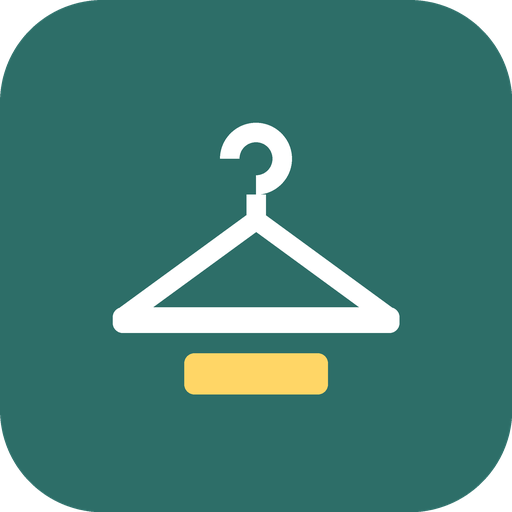
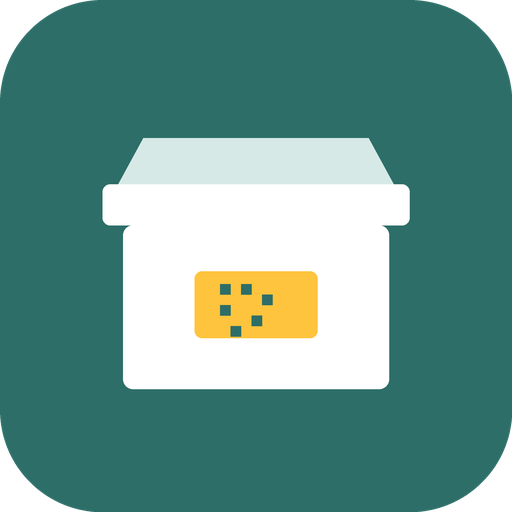
보관함 웹앱 2026.11.24-2151

Changed region(s): [[0.1875, 0.2188, 0.8125, 0.7812]]

diff --git a/index.html b/index.html
@@ -3,8 +3,8 @@
 <head>
 <meta charset="utf-8">
 <meta name="viewport" content="width=device-width,initial-scale=1,viewport-fit=cover">
-<title>우리집 옷장</title>
-<meta name="description" content="상자에 QR 라벨을 붙이고, 어디에 무슨 옷이 있는지 폰으로 찾는 옷장 정리 앱. 기록은 내 폰에만 저장돼요.">
+<title>우리집 보관함</title>
+<meta name="description" content="상자에 QR 라벨을 붙이고, 어디에 무엇이 있는지 폰으로 찾는 집 정리 앱. 옷·장난감·계절용품·공구까지. 기록은 내 폰에만 저장돼요.">
 <meta name="theme-color" content="#f6f5f2">
 <link rel="manifest" href="manifest.webmanifest">
 <link rel="icon" type="image/png" href="icons/icon-192.png">
@@ -12,6 +12,7 @@
 <style>
 :root{--bg:#f6f5f2;--card:#fff;--fg:#25242a;--muted:#6c6973;--line:#e7e4de;--field:#f0eee9;--accent:#2d6e68;--accent-2:#e4f0ee;--bad:#c63c3c;--good:#2f8a4e;--r:14px;--shadow:0 1px 2px rgba(0,0,0,.05),0 2px 10px rgba(0,0,0,.04)}
 *{box-sizing:border-box}
+[hidden]{display:none!important}
 html{-webkit-text-size-adjust:100%}
 body{margin:0;background:var(--bg);color:var(--fg);font:15px/1.5 "Pretendard","Noto Sans KR",system-ui,-apple-system,"Apple SD Gothic Neo","Malgun Gothic",sans-serif;padding-bottom:calc(76px + env(safe-area-inset-bottom))}
 @media (min-width:700px){html{font-size:17px}body{font-size:17px}}
@@ -154,8 +155,8 @@ nav.tabs button.add .i{width:46px;height:46px;border-radius:50%;background:var(-
 <button class="fab" id="fab" type="button" hidden><span aria-hidden="true">⌗</span> QR 찍기</button>
 <nav class="tabs" aria-label="화면"><div class="wrap">
   <button type="button" data-tab="home"><span class="i" aria-hidden="true">⌂</span>수납함</button>
-  <button type="button" data-tab="items"><span class="i" aria-hidden="true">▦</span>옷 전체</button>
-  <button type="button" data-tab="add" class="add" aria-label="옷 추가"><span class="i" aria-hidden="true">+</span>추가</button>
+  <button type="button" data-tab="items"><span class="i" aria-hidden="true">▦</span>물건 전체</button>
+  <button type="button" data-tab="add" class="add" aria-label="물건 추가"><span class="i" aria-hidden="true">+</span>추가</button>
   <button type="button" data-tab="gone"><span class="i" aria-hidden="true">♺</span>정리함</button>
   <button type="button" data-tab="settings"><span class="i" aria-hidden="true">⚙</span>설정</button>
 </div></nav>
@@ -168,7 +169,7 @@ nav.tabs button.add .i{width:46px;height:46px;border-radius:50%;background:var(-
 <script>
 (function(){
 'use strict';
-const VERSION='2026.11.24-2145';
+const VERSION='2026.11.24-2151';
 const PREVIEW='0'==='1'; // Claude 미리보기: 카메라·인쇄·파일 내려받기가 막혀 있음
 const $=id=>document.getElementById(id);
 const el=(tag,attrs,...kids)=>{const e=document.createElement(tag);if(attrs)for(const k in attrs){const v=attrs[k];if(v==null||v===false)continue;if(k==='class')e.className=v;else if(k==='text')e.textContent=v;else if(k==='html')e.innerHTML=v;else if(k.startsWith('on'))e.addEventListener(k.slice(2),v);else if(k==='style')e.style.cssText=v;else e.setAttribute(k,v===true?'':v)}kids.flat().forEach(c=>{if(c==null||c===false)return;e.append(c.nodeType?c:String(c))});return e};
@@ -179,7 +180,8 @@ const won=n=>(Number(n)||0).toLocaleString('ko-KR')+'원';
 
 const COLORS=[['red','빨강','#df4a4f'],['orange','주황','#e9822a'],['yellow','노랑','#d9a514'],['green','초록','#2f9a57'],['blue','파랑','#3478d4'],['purple','보라','#7f56d9'],['pink','분홍','#d9558f'],['gray','회색','#6f7680']];
 const colorOf=k=>(COLORS.find(c=>c[0]===k)||COLORS[7]);
-const CATS=['상의','하의','원피스·세트','아우터','니트·가디건','속옷·잠옷','양말·스타킹','신발','가방','모자·소품','이불·패브릭','기타'];
+const CATS=['옷','신발·가방','이불·패브릭','장난감','책·문구','주방용품','생활용품','계절용품','공구·캠핑','전자기기','서류·추억','기타'];
+const OLD_CLOTHES=['상의','하의','원피스·세트','아우터','니트·가디건','속옷·잠옷','양말·스타킹','모자·소품']; // 옷장 앱 시절 종류 → '옷'
 const SEASONS=['봄','여름','가을','겨울'];
 const EXITS=[['give','기증'],['sell','판매'],['hand','물려줌'],['trash','버림'],['etc','기타']];
 const exitName=k=>(EXITS.find(e=>e[0]===k)||EXITS[4])[1];
@@ -195,7 +197,7 @@ const phGet=async id=>P((await store('photos')).get(id));
 const phSet=async(id,v)=>P((await store('photos','readwrite')).put(v,id));
 const phDel=async id=>P((await store('photos','readwrite')).delete(id));
 
-const BLANK=()=>({v:1,name:'우리집 옷장',rooms:[],boxes:[],items:[],people:[],seq:0,lastBackup:0});
+const BLANK=()=>({v:1,name:'우리집 보관함',rooms:[],boxes:[],items:[],people:[],seq:0,lastBackup:0});
 let S=BLANK();
 let saveT=null;
 function changed(){clearTimeout(saveT);saveT=setTimeout(save,300)}
@@ -207,7 +209,7 @@ document.addEventListener('visibilitychange',()=>{if(document.hidden&&saveT){cle
 const urlCache=new Map();
 async function thumbURL(id,full){const key=id+(full?':f':'');if(urlCache.has(key))return urlCache.get(key);const r=await phGet(id).catch(()=>null);if(!r)return null;const b=full?(r.full||r.thumb):(r.thumb||r.full);if(!b)return null;const u=URL.createObjectURL(b);urlCache.set(key,u);return u}
 function fillPhotos(root){root.querySelectorAll('img[data-ph]').forEach(async img=>{const u=await thumbURL(img.dataset.ph,img.dataset.full==='1');if(u){img.src=u;img.hidden=false}})}
-function phEl(photoId,full,fallback){const box=el('div',{class:'ph'});if(photoId){const i=el('img',{alt:'','data-ph':photoId,'data-full':full?'1':null,hidden:true});box.append(i)}else box.append(fallback||'👕');return box}
+function phEl(photoId,full,fallback){const box=el('div',{class:'ph'});if(photoId){const i=el('img',{alt:'','data-ph':photoId,'data-full':full?'1':null,hidden:true});box.append(i)}else box.append(fallback||'🏷');return box}
 function loadImg(file){return new Promise((res,rej)=>{const u=URL.createObjectURL(file);const i=new Image();i.onload=()=>{res(i);setTimeout(()=>URL.revokeObjectURL(u),1000)};i.onerror=()=>{URL.revokeObjectURL(u);rej(new Error('사진을 열 수 없어요'))};i.src=u})}
 function shrink(img,max,q){const s=Math.min(1,max/Math.max(img.naturalWidth,img.naturalHeight));const c=document.createElement('canvas');c.width=Math.max(1,Math.round(img.naturalWidth*s));c.height=Math.max(1,Math.round(img.naturalHeight*s));c.getContext('2d').drawImage(img,0,0,c.width,c.height);return new Promise(r=>c.toBlob(b=>r(b),'image/jpeg',q))}
 async function savePhoto(file){const img=await loadImg(file);const full=await shrink(img,1280,.82),thumb=await shrink(img,320,.72);const id='p'+uid();await phSet(id,{full,thumb});askPersist();return id}
@@ -222,7 +224,7 @@ const roomOf=id=>S.rooms.find(r=>r.id===id);
 const itemOf=id=>S.items.find(i=>i.id===id);
 const keep=()=>S.items.filter(i=>i.status!=='gone');
 const inBox=bid=>keep().filter(i=>i.boxId===bid);
-const itemName=i=>i.name||(i.cat||'옷');
+const itemName=i=>i.name||(i.cat||'물건');
 const boxLabel=b=>'#'+pad(b.code)+' '+(b.name||'이름 없는 수납함');
 function locText(i){const b=boxOf(i.boxId);if(!b)return '위치 미정';const r=roomOf(b.roomId);return boxLabel(b)+(r?' · '+r.name:'')}
 function locChip(i){const b=boxOf(i.boxId);const s=el('span',{class:'loc'});if(b)s.append(el('i',{class:'dot',style:'background:'+colorOf(b.color)[2]}));s.append(locText(i));return s}
@@ -252,7 +254,7 @@ function vHome(m){
   topbar(S.name,false,el('button',{class:'iconbtn',type:'button','aria-label':'설정',onclick:()=>tabGo('settings')},'⚙'));
   if(!S.boxes.length&&!S.items.length){m.append(welcome());return}
   const res=el('div');
-  const inp=el('input',{type:'search',placeholder:'무엇을 찾나요? 예: 패딩, 겨울, 110',value:homeQ,'aria-label':'옷 찾기',oninput:()=>{homeQ=inp.value;draw()}});
+  const inp=el('input',{type:'search',placeholder:'무엇을 찾나요? 예: 패딩, 트리, 레고',value:homeQ,'aria-label':'물건 찾기',oninput:()=>{homeQ=inp.value;draw()}});
   m.append(el('div',{class:'search'},inp),res);
   const bk=backupNag();if(bk)m.insertBefore(bk,res);
   function draw(){
@@ -261,8 +263,8 @@ function vHome(m){
       const its=keep().filter(i=>matchItem(i,homeQ));
       const bxs=S.boxes.filter(b=>norm([b.name,'#'+pad(b.code),b.note,colorOf(b.color)[1],(roomOf(b.roomId)||{}).name].join(' ')).includes(norm(homeQ)));
       if(bxs.length){res.append(el('h2',{class:'sec'},'수납함 ',el('span',{class:'cnt'},bxs.length+'개')));bxs.forEach(b=>res.append(boxRow(b)))}
-      res.append(el('h2',{class:'sec'},'옷 ',el('span',{class:'cnt'},its.length+'벌')));
-      if(!its.length)res.append(el('div',{class:'empty'},'찾는 옷이 없어요. 다른 말로 찾아보세요.'));
+      res.append(el('h2',{class:'sec'},'물건 ',el('span',{class:'cnt'},its.length+'개')));
+      if(!its.length)res.append(el('div',{class:'empty'},'찾는 물건이 없어요. 다른 말로 찾아보세요.'));
       const L=el('div',{class:'list'});its.slice(0,200).forEach(i=>L.append(itemRow(i)));res.append(L);fillPhotos(res);return;
     }
     const groups=S.rooms.map(r=>[r,S.boxes.filter(b=>b.roomId===r.id)]);
@@ -274,16 +276,16 @@ function vHome(m){
       bs.slice().sort((a,b)=>a.code-b.code).forEach(b=>res.append(boxRow(b)));
     });
     const none=keep().filter(i=>!boxOf(i.boxId));
-    if(none.length){res.append(el('h2',{class:'sec'},'위치 미정',el('span',{class:'cnt'},none.length+'벌')));res.append(el('button',{class:'boxrow',type:'button',onclick:()=>go({name:'items',box:'none'})},el('div',{class:'bar',style:'background:#bbb'},'?'),el('div',{class:'tx'},el('b',{},'아직 수납함을 안 정한 옷'),el('div',{class:'sum'},'눌러서 한꺼번에 옮길 수 있어요')),el('div',{class:'n'},none.length+'벌 ›')))}
+    if(none.length){res.append(el('h2',{class:'sec'},'위치 미정',el('span',{class:'cnt'},none.length+'개')));res.append(el('button',{class:'boxrow',type:'button',onclick:()=>go({name:'items',box:'none'})},el('div',{class:'bar',style:'background:#bbb'},'?'),el('div',{class:'tx'},el('b',{},'아직 수납함을 안 정한 물건'),el('div',{class:'sum'},'눌러서 한꺼번에 옮길 수 있어요')),el('div',{class:'n'},none.length+'개 ›')))}
     res.append(el('div',{class:'btns',style:'margin:14px 0 30px'},el('button',{class:'btn ghost',type:'button',onclick:()=>boxSheet()},'+ 수납함 만들기'),el('button',{class:'btn ghost',type:'button',onclick:()=>roomSheet()},'+ 방(장소) 만들기')));
   }
   draw();
 }
-function boxRow(b){const n=inBox(b.id).length;return el('button',{class:'boxrow',type:'button',onclick:()=>go({name:'box',id:b.id})},el('div',{class:'bar',style:'background:'+colorOf(b.color)[2]},pad(b.code)),el('div',{class:'tx'},el('b',{},b.name||'이름 없는 수납함'),el('div',{class:'sum'},boxSummary(b))),el('div',{class:'n'},n+'벌 ›'))}
+function boxRow(b){const n=inBox(b.id).length;return el('button',{class:'boxrow',type:'button',onclick:()=>go({name:'box',id:b.id})},el('div',{class:'bar',style:'background:'+colorOf(b.color)[2]},pad(b.code)),el('div',{class:'tx'},el('b',{},b.name||'이름 없는 수납함'),el('div',{class:'sum'},boxSummary(b))),el('div',{class:'n'},n+'개 ›'))}
 function itemRow(i,onclick){return el('button',{class:'row',type:'button',onclick:onclick||(()=>itemSheet(i.id))},phEl(i.photoId),el('div',{class:'tx'},el('b',{},itemName(i)),el('span',{},itemMeta(i)||' '),i.status==='gone'?el('span',{},exitName(i.exit&&i.exit.type)+(i.exit&&i.exit.to?' · '+i.exit.to:'')+(i.exit&&i.exit.date?' · '+i.exit.date:'')):locChip(i)))}
 function itemCard(i){return el('button',{class:'it',type:'button',onclick:()=>itemSheet(i.id)},phEl(i.photoId),el('div',{class:'cap'},el('b',{},itemName(i)),el('span',{},[i.size,i.owner].filter(Boolean).join(' · ')||i.cat||' ')))}
 function welcome(){return el('div',{},
-  el('div',{class:'note',style:'margin-top:16px'},el('b',{},'우리집 옷장에 오신 걸 환영해요'),el('br'),'① 방(장소)을 만들고 ② 수납함(상자·서랍·옷장 칸)을 만든 뒤 ③ 옷을 사진과 함께 넣어요. ④ 설정 → 라벨 인쇄로 QR 라벨을 뽑아 상자에 붙이면, 폰 카메라로 찍기만 해도 안에 뭐가 있는지 보여요.'),
+  el('div',{class:'note',style:'margin-top:16px'},el('b',{},'우리집 보관함에 오신 걸 환영해요'),el('br'),'① 방(장소)을 만들고 ② 수납함(상자·서랍·옷장 칸·선반)을 만든 뒤 ③ 옷·장난감·계절용품 같은 물건을 사진과 함께 넣어요. ④ 설정 → 라벨 인쇄로 QR 라벨을 뽑아 상자에 붙이면, 폰 카메라로 찍기만 해도 안에 뭐가 있는지 보여요.'),
   el('div',{class:'btns',style:'margin:10px 0'},el('button',{class:'btn',type:'button',onclick:()=>roomSheet()},'+ 방 만들기'),el('button',{class:'btn soft',type:'button',onclick:()=>boxSheet()},'+ 수납함 만들기')),
   el('div',{class:'btns'},el('button',{class:'btn ghost',type:'button',onclick:()=>sample()},'예시로 둘러보기')),
   el('p',{class:'msg',style:'text-align:center;margin-top:16px'},'기록과 사진은 이 폰 안에만 저장돼요. 가끔 설정 → 백업을 해 두세요.'))}
@@ -296,10 +298,10 @@ function vBox(m){
   topbar(b.name||'수납함',true,el('button',{class:'iconbtn',type:'button','aria-label':'수납함 고치기',onclick:()=>boxSheet(b.id)},'✎'));
   m.append(el('div',{class:'boxhead',style:'background:'+c[2]},el('div',{class:'code'},'#'+pad(b.code)),el('div',{},el('div',{class:'nm'},b.name||'이름 없는 수납함'),el('div',{class:'rm'},[r?r.name:'방 미정',c[1]+' 라벨',b.note].filter(Boolean).join(' · ')))));
   const L=inBox(b.id);
-  m.append(el('div',{class:'btns',style:'margin:10px 0'},el('button',{class:'btn',type:'button',onclick:()=>itemSheet(null,{boxId:b.id})},'+ 옷 넣기'),el('button',{class:'btn soft',type:'button',onclick:()=>manySheet({boxId:b.id})},'여러 벌'),el('button',{class:'btn ghost',type:'button',onclick:()=>go({name:'labels',only:[b.id]})},'QR 라벨')));
+  m.append(el('div',{class:'btns',style:'margin:10px 0'},el('button',{class:'btn',type:'button',onclick:()=>itemSheet(null,{boxId:b.id})},'+ 물건 넣기'),el('button',{class:'btn soft',type:'button',onclick:()=>manySheet({boxId:b.id})},'여러 개'),el('button',{class:'btn ghost',type:'button',onclick:()=>go({name:'labels',only:[b.id]})},'QR 라벨')));
   if(b.photoId){m.append(el('h2',{class:'sec'},'상자 속 사진'));const bp=el('div',{class:'big-ph'},el('img',{alt:'상자 속 사진','data-ph':b.photoId,'data-full':'1',hidden:true}));m.append(bp)}
-  m.append(el('h2',{class:'sec'},'들어 있는 옷',el('span',{class:'cnt'},L.length+'벌')));
-  if(!L.length){m.append(el('div',{class:'empty'},'아직 비어 있어요. "+ 옷 넣기"로 넣거나, 옷 화면에서 이 상자로 옮겨요.'));return}
+  m.append(el('h2',{class:'sec'},'들어 있는 것',el('span',{class:'cnt'},L.length+'개')));
+  if(!L.length){m.append(el('div',{class:'empty'},'아직 비어 있어요. "+ 물건 넣기"로 넣거나, 물건 화면에서 이 상자로 옮겨요.'));return}
   const g=el('div',{class:'grid'});L.slice().sort((a,b)=>(a.cat||'').localeCompare(b.cat||'')||(a.size||'').localeCompare(b.size||'',undefined,{numeric:true})).forEach(i=>g.append(itemCard(i)));m.append(g);
   m.append(el('div',{style:'height:70px'}));
 }
@@ -307,9 +309,9 @@ function vBox(m){
 // ---------- 옷 전체 ----------
 let F={q:'',cat:'',owner:'',season:''};
 function vItems(m){
-  topbar(view.box==='none'?'위치 미정인 옷':'옷 전체',view.box==='none');
+  topbar(view.box==='none'?'위치 미정인 물건':'물건 전체',view.box==='none');
   const res=el('div');
-  const inp=el('input',{type:'search',placeholder:'이름·브랜드·사이즈로 찾기',value:F.q,'aria-label':'옷 찾기',oninput:()=>{F.q=inp.value;draw()}});
+  const inp=el('input',{type:'search',placeholder:'이름·브랜드·사이즈로 찾기',value:F.q,'aria-label':'물건 찾기',oninput:()=>{F.q=inp.value;draw()}});
   m.append(el('div',{class:'search'},inp));
   const fl=el('div',{class:'filters'});
   const chipRow=(key,opts,allLabel)=>{const r=el('div',{class:'chips scroll'});const mk=(v,t)=>el('button',{class:'chip',type:'button','aria-pressed':String(F[key]===v),onclick:()=>{F[key]=F[key]===v&&v?'':v;rowsDraw();draw()}},t);r.append(mk('',allLabel));opts.forEach(o=>r.append(mk(o,o)));return r};
@@ -319,27 +321,27 @@ function vItems(m){
     res.textContent='';
     let L=keep().filter(i=>(view.box!=='none'||!boxOf(i.boxId))&&(!F.cat||i.cat===F.cat)&&(!F.owner||i.owner===F.owner)&&(!F.season||(i.season||[]).includes(F.season))&&matchItem(i,F.q));
     L.sort((a,b)=>(b.updated||0)-(a.updated||0));
-    const head=el('h2',{class:'sec'},L.length+'벌');
-    if(L.length)head.append(el('button',{class:'more',type:'button',onclick:()=>moveMany(L)},'보이는 옷 한꺼번에 옮기기'));
+    const head=el('h2',{class:'sec'},L.length+'개');
+    if(L.length)head.append(el('button',{class:'more',type:'button',onclick:()=>moveMany(L)},'보이는 것 한꺼번에 옮기기'));
     res.append(head);
-    if(!L.length){res.append(el('div',{class:'empty'},keep().length?'조건에 맞는 옷이 없어요.':'아직 등록한 옷이 없어요. 아래 + 를 눌러 넣어 보세요.'));return}
+    if(!L.length){res.append(el('div',{class:'empty'},keep().length?'조건에 맞는 물건이 없어요.':'아직 넣은 물건이 없어요. 아래 + 를 눌러 넣어 보세요.'));return}
     const list=el('div',{class:'list'});L.slice(0,400).forEach(i=>list.append(itemRow(i)));res.append(list);
-    if(L.length>400)res.append(el('div',{class:'empty'},'앞의 400벌만 보여요. 검색이나 필터로 좁혀 주세요.'));
+    if(L.length>400)res.append(el('div',{class:'empty'},'앞의 400개만 보여요. 검색이나 필터로 좁혀 주세요.'));
     fillPhotos(res);
   }
   draw();
 }
-function moveMany(L){pickBox('옮길 수납함 고르기 ('+L.length+'벌)',null,bid=>{L.forEach(i=>{i.boxId=bid;i.updated=Date.now()});changed();toast(L.length+'벌을 옮겼어요');render()})}
+function moveMany(L){pickBox('옮길 수납함 고르기 ('+L.length+'개)',null,bid=>{L.forEach(i=>{i.boxId=bid;i.updated=Date.now()});changed();toast(L.length+'개를 옮겼어요');render()})}
 
 // ---------- 정리함 ----------
 function vGone(m){
-  topbar('정리한 옷',false);
+  topbar('정리한 물건',false);
   const G=S.items.filter(i=>i.status==='gone').sort((a,b)=>((b.exit&&b.exit.date)||'').localeCompare((a.exit&&a.exit.date)||''));
   const cnt=k=>G.filter(i=>(i.exit&&i.exit.type)===k).length;
   const sold=G.filter(i=>i.exit&&i.exit.type==='sell').reduce((a,i)=>a+(Number(i.exit.price)||0),0);
-  m.append(el('div',{class:'stat'},el('div',{},el('b',{},G.length),el('span',{},'정리한 옷')),el('div',{},el('b',{},cnt('give')+cnt('hand')),el('span',{},'기증·물려줌')),el('div',{},el('b',{},won(sold)),el('span',{},'판매 금액'))));
-  m.append(el('div',{class:'note'},'안 입는 옷은 옷 화면에서 "정리하기"를 누르면 여기로 와요. 판매는 당근마켓에 올릴 글을 만들어 줘요. 잘못 옮겼으면 눌러서 되돌릴 수 있어요.'));
-  if(!G.length){m.append(el('div',{class:'empty'},'아직 정리한 옷이 없어요.'));return}
+  m.append(el('div',{class:'stat'},el('div',{},el('b',{},G.length),el('span',{},'정리한 물건')),el('div',{},el('b',{},cnt('give')+cnt('hand')),el('span',{},'기증·물려줌')),el('div',{},el('b',{},won(sold)),el('span',{},'판매 금액'))));
+  m.append(el('div',{class:'note'},'안 쓰는 물건은 물건 화면에서 "정리하기"를 누르면 여기로 와요. 판매는 당근마켓에 올릴 글을 만들어 줘요. 잘못 옮겼으면 눌러서 되돌릴 수 있어요.'));
+  if(!G.length){m.append(el('div',{class:'empty'},'아직 정리한 물건이 없어요.'));return}
   const L=el('div',{class:'list'});G.forEach(i=>L.append(itemRow(i)));m.append(L);
 }
 
@@ -348,9 +350,9 @@ function vSettings(m){
   topbar('설정',false);
   const card=(t,p,...kids)=>el('div',{class:'setcard'},el('h4',{},t),p?el('p',{},p):null,...kids);
   const nm=el('input',{class:'inp',type:'text',value:S.name,maxlength:'20'});
-  m.append(card('옷장 이름','맨 위에 보이는 이름이에요.',el('div',{class:'tagrow'},nm,el('button',{type:'button',onclick:()=>{S.name=nm.value.trim()||'우리집 옷장';changed();toast('이름을 바꿨어요');document.title=S.name}},'저장'))));
+  m.append(card('보관함 이름','맨 위에 보이는 이름이에요.',el('div',{class:'tagrow'},nm,el('button',{type:'button',onclick:()=>{S.name=nm.value.trim()||'우리집 보관함';changed();toast('이름을 바꿨어요');document.title=S.name}},'저장'))));
   m.append(card('방(장소)','수납함을 방별로 묶어 보여 줘요. 예: 안방 옷장, 아이방, 베란다 창고',listEditor(S.rooms,r=>r.name,(r,v)=>{r.name=v},()=>roomSheet(),async r=>{const n=S.boxes.filter(b=>b.roomId===r.id).length;if(n&&!await ask('"'+r.name+'" 지우기','이 방의 수납함 '+n+'개는 "방 미정"으로 옮겨져요.','지우기'))return false;S.rooms=S.rooms.filter(x=>x!==r);return true},true)));
-  m.append(card('누구 옷','가족 이름을 넣으면 옷마다 누구 것인지 고르고, 사람별로 모아 볼 수 있어요.',listEditor(S.people.map(p=>({p})),o=>o.p,(o,v)=>{const i=S.people.indexOf(o.p);if(i>=0){S.items.forEach(it=>{if(it.owner===o.p)it.owner=v});S.people[i]=v;o.p=v}},async()=>{const v=await askText('가족 이름 추가','예: 엄마, 선우');if(v&&!S.people.includes(v)){S.people.push(v);changed();render()}},o=>{S.people=S.people.filter(x=>x!==o.p);return true},false)));
+  m.append(card('누구 것','가족 이름을 넣으면 물건마다 누구 것인지 고르고, 사람별로 모아 볼 수 있어요.',listEditor(S.people.map(p=>({p})),o=>o.p,(o,v)=>{const i=S.people.indexOf(o.p);if(i>=0){S.items.forEach(it=>{if(it.owner===o.p)it.owner=v});S.people[i]=v;o.p=v}},async()=>{const v=await askText('가족 이름 추가','예: 엄마, 선우');if(v&&!S.people.includes(v)){S.people.push(v);changed();render()}},o=>{S.people=S.people.filter(x=>x!==o.p);return true},false)));
   m.append(card('QR 라벨 인쇄','A4 스티커 용지에 수납함 라벨을 한 번에 뽑아요. 폰 카메라로 라벨을 찍으면 이 앱에서 그 수납함이 열려요.',el('button',{class:'btn wide',type:'button',onclick:()=>go({name:'labels'})},'라벨 고르고 인쇄하기')));
   const bm=el('div',{class:'msg'});
   const last=S.lastBackup?new Date(S.lastBackup).toLocaleDateString('ko-KR'):'아직 안 함';
@@ -359,7 +361,7 @@ function vSettings(m){
     el('div',{class:'btns',style:'margin-top:8px'},el('button',{class:'btn ghost',type:'button',onclick:()=>doRestore(bm)},'백업 불러오기')),bm));
   const sm=el('div',{class:'msg'},'확인 중…');
   m.append(card('저장 공간',null,sm));
-  (async()=>{try{const e=navigator.storage&&navigator.storage.estimate?await navigator.storage.estimate():null;const per=navigator.storage&&navigator.storage.persisted?await navigator.storage.persisted():false;sm.textContent='옷 '+keep().length+'벌 · 수납함 '+S.boxes.length+'개 · 정리한 옷 '+(S.items.length-keep().length)+'벌'+(e?' · 사용 '+(e.usage/1048576).toFixed(1)+'MB':'')+(per?' · 자동 삭제 안 되게 보호됨':'')}catch(err){sm.textContent='옷 '+keep().length+'벌 · 수납함 '+S.boxes.length+'개'}})();
+  (async()=>{try{const e=navigator.storage&&navigator.storage.estimate?await navigator.storage.estimate():null;const per=navigator.storage&&navigator.storage.persisted?await navigator.storage.persisted():false;sm.textContent='물건 '+keep().length+'개 · 수납함 '+S.boxes.length+'개 · 정리한 물건 '+(S.items.length-keep().length)+'개'+(e?' · 사용 '+(e.usage/1048576).toFixed(1)+'MB':'')+(per?' · 자동 삭제 안 되게 보호됨':'')}catch(err){sm.textContent='물건 '+keep().length+'개 · 수납함 '+S.boxes.length+'개'}})();
   const wipe=el('button',{class:'btn bad wide',type:'button',onclick:async()=>{if(!wipe.dataset.sure){wipe.dataset.sure='1';wipe.textContent='한 번 더 누르면 모든 기록과 사진이 지워져요';return}const d=await openDB();await P(d.transaction('photos','readwrite').objectStore('photos').clear());S=BLANK();await save();urlCache.clear();toast('모두 지웠어요');tabGo('home')}},'처음부터 다시 (모두 지우기)');
   m.append(card('처음부터 다시','예시로 둘러본 뒤 새로 시작할 때 써요. 지우기 전에 백업을 해 두세요.',wipe));
   m.append(el('div',{class:'ver'},'앱 버전 ',el('b',{},VERSION)));
@@ -408,22 +410,22 @@ function boxSheet(id,roomId,onMade){
   const b=id?boxOf(id):null;
   const d=b?{...b}:{name:'',roomId:roomId||(S.rooms.length===1?S.rooms[0].id:''),color:COLORS[S.boxes.length%COLORS.length][0],note:'',photoId:''};
   sheet(b?'수납함 고치기':'수납함 만들기',(sh,close)=>{
-    const nm=el('input',{type:'text',value:d.name,placeholder:'예: 겨울옷 상자, 서랍 2칸, 행거 왼쪽',maxlength:'30'});
+    const nm=el('input',{type:'text',value:d.name,placeholder:'예: 겨울옷 상자, 크리스마스 장식, 공구함',maxlength:'30'});
     sh.append(field('이름',nm));
     const rs=el('select',{});rs.append(el('option',{value:''},'방 미정'));S.rooms.forEach(r=>rs.append(el('option',{value:r.id,selected:r.id===d.roomId?true:null},r.name)));
     sh.append(field('어느 방(장소)에 있나요',el('div',{class:'tagrow'},rs,el('button',{type:'button',onclick:async()=>{const v=await askText('새 방 이름','예: 안방 옷장');if(v){const r={id:'r'+uid(),name:v};S.rooms.push(r);changed();rs.append(el('option',{value:r.id},r.name));rs.value=r.id}}},'+ 새 방'))));
     const cs=el('div',{class:'colors'});const drawC=()=>{cs.textContent='';COLORS.forEach(c=>cs.append(el('button',{type:'button','aria-label':c[1],'aria-pressed':String(d.color===c[0]),style:'background:'+c[2],onclick:()=>{d.color=c[0];drawC()}})))};drawC();
     sh.append(el('div',{class:'f'},el('div',{class:'lb'},'라벨 색 (같은 종류끼리 같은 색으로 하면 찾기 쉬워요)'),cs));
-    const nt=el('input',{type:'text',value:d.note,placeholder:'예: 110~120 사이즈, 위에서 두 번째',maxlength:'60'});sh.append(field('메모 (선택)',nt));
+    const nt=el('input',{type:'text',value:d.note,placeholder:'예: 위에서 두 번째 칸',maxlength:'60'});sh.append(field('메모 (선택)',nt));
     const pv=el('div',{class:'photo-pick'});const drawP=()=>{pv.textContent='';pv.append(phEl(d.photoId,false,'📦'),el('div',{class:'btns'},el('button',{class:'btn soft',type:'button',onclick:async()=>{const f=await pickFile($('fileCam'));if(f[0]){const old=d.photoId;d.photoId=await savePhoto(f[0]);if(old&&old!==(b&&b.photoId))dropPhoto(old);drawP()}}},'상자 속 사진 찍기'),d.photoId?el('button',{class:'btn ghost',type:'button',onclick:()=>{d.photoId='';drawP()}},'사진 빼기'):null));fillPhotos(pv)};drawP();
-    sh.append(el('div',{class:'f'},el('div',{class:'lb'},'상자 속 사진 (선택) — 한 벌씩 안 넣어도 안에 뭐가 있는지 보여요'),pv));
+    sh.append(el('div',{class:'f'},el('div',{class:'lb'},'상자 속 사진 (선택) — 하나씩 안 넣어도 안에 뭐가 있는지 보여요'),pv));
     sh.append(el('button',{class:'btn wide',type:'button',onclick:()=>{
       const o={name:nm.value.trim(),roomId:rs.value,color:d.color,note:nt.value.trim(),photoId:d.photoId};
       if(b){if(b.photoId&&b.photoId!==o.photoId)dropPhoto(b.photoId);Object.assign(b,o);changed();close();render();return}
       S.seq=(S.seq||0)+1;const nb={id:'b'+uid(),code:S.seq,...o};S.boxes.push(nb);changed();close();
       if(onMade)onMade(nb.id);else{toast('#'+pad(nb.code)+' 수납함을 만들었어요');go({name:'box',id:nb.id})}
     }},b?'저장':'만들기'));
-    if(b){const del=el('button',{class:'btn bad wide',type:'button',style:'margin-top:8px',onclick:()=>{const n=inBox(b.id).length;if(!del.dataset.sure){del.dataset.sure='1';del.textContent=n?'한 번 더 누르면 지워져요 (안의 '+n+'벌은 위치 미정으로)':'한 번 더 누르면 지워져요';return}S.items.forEach(i=>{if(i.boxId===b.id)i.boxId=''});if(b.photoId)dropPhoto(b.photoId);S.boxes=S.boxes.filter(x=>x!==b);changed();close();tabGo('home')}},'이 수납함 지우기');sh.append(del)}
+    if(b){const del=el('button',{class:'btn bad wide',type:'button',style:'margin-top:8px',onclick:()=>{const n=inBox(b.id).length;if(!del.dataset.sure){del.dataset.sure='1';del.textContent=n?'한 번 더 누르면 지워져요 (안의 '+n+'개는 위치 미정으로)':'한 번 더 누르면 지워져요';return}S.items.forEach(i=>{if(i.boxId===b.id)i.boxId=''});if(b.photoId)dropPhoto(b.photoId);S.boxes=S.boxes.filter(x=>x!==b);changed();close();tabGo('home')}},'이 수납함 지우기');sh.append(del)}
     if(!b)setTimeout(()=>nm.focus(),60);
   });
 }
@@ -431,23 +433,23 @@ function boxSheet(id,roomId,onMade){
 // 옷 추가·고치기
 function itemForm(sh,d,photo){
   if(photo){const pv=el('div',{class:'photo-pick'});const drawP=()=>{pv.textContent='';pv.append(phEl(d.photoId),el('div',{class:'btns'},el('button',{class:'btn soft',type:'button',onclick:()=>setP($('fileCam'))},'사진 찍기'),el('button',{class:'btn ghost',type:'button',onclick:()=>setP($('fileOne'))},'앨범에서 고르기')));fillPhotos(pv)};const setP=async inp=>{const f=await pickFile(inp);if(!f[0])return;try{const old=d.photoId;d.photoId=await savePhoto(f[0]);if(old&&old!==d._origPhoto)dropPhoto(old);drawP()}catch(e){toast(String(e.message||e))}};drawP();sh.append(pv)}
-  if(photo){const nm=el('input',{type:'text',value:d.name||'',placeholder:'예: 남색 롱패딩 (비워 두면 종류로 보여요)',maxlength:'40',oninput:()=>d.name=nm.value});sh.append(field('이름',nm))}
+  if(photo){const nm=el('input',{type:'text',value:d.name||'',placeholder:'예: 남색 롱패딩, 크리스마스 트리',maxlength:'40',oninput:()=>d.name=nm.value});sh.append(field('이름',nm))}
   sh.append(el('div',{class:'f'},el('div',{class:'lb'},'종류'),chipPick(CATS,d.cat,false,v=>d.cat=v)));
-  if(S.people.length)sh.append(el('div',{class:'f'},el('div',{class:'lb'},'누구 옷'),chipPick([...S.people,'공용'],d.owner,false,v=>d.owner=v)));
-  const sz=el('input',{type:'text',value:d.size||'',placeholder:'예: M, 95, 110, 240',maxlength:'12',oninput:()=>d.size=sz.value.trim()});
+  if(S.people.length)sh.append(el('div',{class:'f'},el('div',{class:'lb'},'누구 것'),chipPick([...S.people,'공용'],d.owner,false,v=>d.owner=v)));
+  const sz=el('input',{type:'text',value:d.size||'',placeholder:'예: M, 110, 240, 대·중·소',maxlength:'12',oninput:()=>d.size=sz.value.trim()});
   const br=el('input',{type:'text',value:d.brand||'',placeholder:'선택',maxlength:'20',list:'brandList',oninput:()=>d.brand=br.value.trim()});
   const dl=el('datalist',{id:'brandList'});[...new Set(S.items.map(i=>i.brand).filter(Boolean))].slice(0,50).forEach(x=>dl.append(el('option',{value:x})));
   sh.append(el('div',{class:'two'},field('사이즈',sz),field('브랜드',br)),dl);
   sh.append(el('div',{class:'f'},el('div',{class:'lb'},'계절 (여러 개 고를 수 있어요)'),chipPick(SEASONS,d.season,true,v=>d.season=v)));
   sh.append(field('어디에 두나요',boxSelect(d.boxId,v=>d.boxId=v)));
-  if(photo){const me=el('textarea',{rows:'2',placeholder:'예: 작년에 선물 받음, 단추 하나 없음',maxlength:'200',oninput:()=>d.memo=me.value},d.memo||'');sh.append(field('메모 (선택)',me))}
+  if(photo){const me=el('textarea',{rows:'2',placeholder:'예: 작년에 선물 받음, 건전지 따로 있음',maxlength:'200',oninput:()=>d.memo=me.value},d.memo||'');sh.append(field('메모 (선택)',me))}
 }
 function itemSheet(id,preset){
   const it=id?itemOf(id):null;
   if(it&&!preset&&!itemSheet._edit){return itemDetail(it)}
   itemSheet._edit=false;
   const d=it?{...it,season:(it.season||[]).slice(),_origPhoto:it.photoId}:{name:'',cat:'',owner:'',size:'',brand:'',season:[],boxId:'',memo:'',photoId:'',...(preset||{})};
-  sheet(it?'옷 고치기':'옷 넣기',(sh,close)=>{
+  sheet(it?'고치기':'물건 넣기',(sh,close)=>{
     itemForm(sh,d,true);
     sh.append(el('button',{class:'btn wide',type:'button',onclick:()=>{
       const o={name:(d.name||'').trim(),cat:d.cat,owner:d.owner,size:d.size,brand:d.brand,season:d.season,boxId:d.boxId,memo:(d.memo||'').trim(),photoId:d.photoId,updated:Date.now()};
@@ -460,9 +462,9 @@ function itemSheet(id,preset){
 }
 function itemDetail(it){
   sheet(itemName(it),(sh,close)=>{
-    sh.append(el('div',{class:'big-ph'},it.photoId?el('img',{alt:itemName(it),'data-ph':it.photoId,'data-full':'1',hidden:true}):'👕'));
+    sh.append(el('div',{class:'big-ph'},it.photoId?el('img',{alt:itemName(it),'data-ph':it.photoId,'data-full':'1',hidden:true}):'🏷'));
     const kv=el('dl',{class:'kv'});const add=(k,v)=>{if(v)kv.append(el('dt',{},k),el('dd',{},v))};
-    add('종류',it.cat);add('누구 옷',it.owner);add('사이즈',it.size);add('계절',(it.season||[]).length===4?'사계절':(it.season||[]).join(', '));add('브랜드',it.brand);add('메모',it.memo);
+    add('종류',it.cat);add('누구 것',it.owner);add('사이즈',it.size);add('계절',(it.season||[]).length===4?'사계절':(it.season||[]).join(', '));add('브랜드',it.brand);add('메모',it.memo);
     if(it.status==='gone'){const e=it.exit||{};add('정리',exitName(e.type)+(e.to?' · '+e.to:'')+(e.price?' · '+won(e.price):''));add('날짜',e.date);const lb=boxOf(it.lastBoxId);add('있던 곳',lb?boxLabel(lb):'')}
     sh.append(kv);
     if(it.status!=='gone'){
@@ -472,7 +474,7 @@ function itemDetail(it){
       sh.append(el('button',{class:'btn wide',type:'button',style:'margin-top:8px;background:#25242a',onclick:()=>{close();exitSheet(it)}},'정리하기 (기증·판매·물려줌·버림)'));
     }else{
       if(it.exit&&it.exit.type==='sell')sh.append(el('button',{class:'btn soft wide',type:'button',onclick:()=>copySell(it,it.exit.price)},'당근 판매 글 다시 복사'));
-      sh.append(el('button',{class:'btn wide',type:'button',style:'margin-top:8px',onclick:()=>{it.status='keep';it.boxId=boxOf(it.lastBoxId)?it.lastBoxId:'';it.updated=Date.now();changed();close();render();toast('옷장으로 되돌렸어요')}},'옷장으로 되돌리기'));
+      sh.append(el('button',{class:'btn wide',type:'button',style:'margin-top:8px',onclick:()=>{it.status='keep';it.boxId=boxOf(it.lastBoxId)?it.lastBoxId:'';it.updated=Date.now();changed();close();render();toast('보관함으로 되돌렸어요')}},'보관함으로 되돌리기'));
       const del=el('button',{class:'btn bad wide',type:'button',style:'margin-top:8px',onclick:()=>{if(!del.dataset.sure){del.dataset.sure='1';del.textContent='한 번 더 누르면 사진까지 완전히 지워져요';return}if(it.photoId)dropPhoto(it.photoId);S.items=S.items.filter(x=>x!==it);changed();close();render()}},'완전히 지우기');sh.append(del);
     }
   });
@@ -498,19 +500,19 @@ async function copySell(it,price){const t=sellText(it,price);try{await navigator
 async function manySheet(preset){
   const files=await pickFile($('fileMany'));if(!files.length)return;
   const d={cat:'',owner:'',size:'',brand:'',season:[],boxId:'',...(preset||{})};
-  sheet('사진 '+files.length+'장 → '+files.length+'벌 넣기',(sh,close)=>{
-    sh.append(el('div',{class:'note'},'사진 1장이 옷 1벌이 돼요. 아래에서 고른 내용이 모두에게 똑같이 들어가요. 이름·사이즈가 다른 건 나중에 하나씩 고치면 돼요.'));
+  sheet('사진 '+files.length+'장 → '+files.length+'개 넣기',(sh,close)=>{
+    sh.append(el('div',{class:'note'},'사진 1장이 물건 1개가 돼요. 아래에서 고른 내용이 모두에게 똑같이 들어가요. 이름·사이즈가 다른 건 나중에 하나씩 고치면 돼요.'));
     const strip=el('div',{class:'chips scroll',style:'margin-bottom:12px'});files.slice(0,30).forEach(f=>{const u=URL.createObjectURL(f);strip.append(el('img',{src:u,alt:'',style:'width:56px;height:56px;object-fit:cover;border-radius:8px;flex:none'}))});sh.append(strip);
     itemForm(sh,d,false);
     const msg=el('div',{class:'msg'});
-    const go2=el('button',{class:'btn wide',type:'button',onclick:async()=>{go2.disabled=true;let n=0;for(const f of files){try{msg.textContent='사진 줄이는 중… '+(++n)+'/'+files.length;const pid=await savePhoto(f);S.items.push({id:'i'+uid(),status:'keep',created:Date.now(),updated:Date.now(),name:'',cat:d.cat,owner:d.owner,size:d.size,brand:d.brand,season:d.season,boxId:d.boxId,memo:'',photoId:pid})}catch(e){}}changed();close();render();toast(n+'벌을 넣었어요')}},files.length+'벌 넣기');
+    const go2=el('button',{class:'btn wide',type:'button',onclick:async()=>{go2.disabled=true;let n=0;for(const f of files){try{msg.textContent='사진 줄이는 중… '+(++n)+'/'+files.length;const pid=await savePhoto(f);S.items.push({id:'i'+uid(),status:'keep',created:Date.now(),updated:Date.now(),name:'',cat:d.cat,owner:d.owner,size:d.size,brand:d.brand,season:d.season,boxId:d.boxId,memo:'',photoId:pid})}catch(e){}}changed();close();render();toast(n+'개를 넣었어요')}},files.length+'개 넣기');
     sh.append(go2,msg);
   });
 }
 function addMenu(){sheet('무엇을 할까요?',(sh,close)=>{
   const b=view.name==='box'?view.id:'';
   sh.append(el('div',{class:'btns',style:'flex-direction:column'},
-    el('button',{class:'btn',type:'button',onclick:()=>{close();itemSheet(null,{boxId:b})}},'옷 한 벌 넣기 (사진 찍기)'),
+    el('button',{class:'btn',type:'button',onclick:()=>{close();itemSheet(null,{boxId:b})}},'물건 하나 넣기 (사진 찍기)'),
     el('button',{class:'btn soft',type:'button',onclick:()=>{close();manySheet({boxId:b})}},'사진 여러 장으로 한 번에 넣기'),
     el('button',{class:'btn ghost',type:'button',onclick:()=>{close();boxSheet()}},'수납함 만들기'),
     el('button',{class:'btn ghost',type:'button',onclick:()=>{close();roomSheet()}},'방(장소) 만들기')));
@@ -519,7 +521,7 @@ function addMenu(){sheet('무엇을 할까요?',(sh,close)=>{
 // ---------- QR 라벨 ----------
 function boxURL(b){return location.origin+location.pathname.replace(/index\.html$/,'')+'#box='+b.id}
 function qrSVG(text){const q=qrcode(0,'M');q.addData(text);q.make();const n=q.getModuleCount();let p='';for(let r=0;r<n;r++)for(let c=0;c<n;c++)if(q.isDark(r,c))p+='M'+c+' '+r+'h1v1h-1z';return '<svg xmlns="http://www.w3.org/2000/svg" viewBox="-2 -2 '+(n+4)+' '+(n+4)+'" shape-rendering="crispEdges"><rect x="-2" y="-2" width="'+(n+4)+'" height="'+(n+4)+'" fill="#fff"/><path d="'+p+'" fill="#000"/></svg>'}
-function labelEl(b){const c=colorOf(b.color),r=roomOf(b.roomId);return el('div',{class:'lab'},el('div',{class:'lt',style:'background:'+c[2]},el('b',{},'#'+pad(b.code)),el('span',{},r?r.name:'')),el('div',{class:'lb',html:qrSVG(boxURL(b))},el('div',{class:'t'},b.name||'수납함',el('small',{},'폰 카메라로 찍으면 안에 든 옷이 보여요'))))}
+function labelEl(b){const c=colorOf(b.color),r=roomOf(b.roomId);return el('div',{class:'lab'},el('div',{class:'lt',style:'background:'+c[2]},el('b',{},'#'+pad(b.code)),el('span',{},r?r.name:'')),el('div',{class:'lb',html:qrSVG(boxURL(b))},el('div',{class:'t'},b.name||'수납함',el('small',{},'폰 카메라로 찍으면 안에 든 게 보여요'))))}
 let lblSize='big';
 function vLabels(m){
   topbar('QR 라벨 인쇄',true);
@@ -569,7 +571,7 @@ async function doBackup(withPhotos,msg){
     S.lastBackup=Date.now();await save();
     const data={app:'closet',v:1,at:new Date().toISOString(),withPhotos,state:S,photos};
     const blob=new Blob([JSON.stringify(data)],{type:'application/json'});
-    const d=new Date(),name='closet_backup_'+d.getFullYear()+pad(d.getMonth()+1)+pad(d.getDate())+(withPhotos?'':'_text')+'.json';
+    const d=new Date(),name='bogwanham_backup_'+d.getFullYear()+pad(d.getMonth()+1)+pad(d.getDate())+(withPhotos?'':'_text')+'.json';
     const file=new File([blob],name,{type:'application/json'});
     if(!PREVIEW&&navigator.canShare&&navigator.canShare({files:[file]})&&await ask('백업 파일 보내기','카톡·드라이브로 바로 보낼까요?\n아니면 폰에 파일로 저장해요.','보내기')){try{await navigator.share({files:[file],title:name});msg.textContent=name+' 을 보냈어요.';return}catch(e){}}
     if(PREVIEW){msg.textContent='미리보기에서는 파일 저장이 안 돼요. 실제 앱에서 할 수 있어요.';return}
@@ -579,9 +581,9 @@ async function doBackup(withPhotos,msg){
 }
 async function doRestore(msg){
   const f=(await pickFile($('fileBackup')))[0];if(!f)return;
-  try{msg.textContent='읽는 중…';const j=JSON.parse(await f.text());if(!j||j.app!=='closet'||!j.state)throw new Error('옷장 백업 파일이 아니에요');
+  try{msg.textContent='읽는 중…';const j=JSON.parse(await f.text());if(!j||j.app!=='closet'||!j.state)throw new Error('보관함 백업 파일이 아니에요');
     const st=j.state,n=(st.items||[]).length;
-    if(!await ask('백업 불러오기','옷 '+n+'벌, 수납함 '+(st.boxes||[]).length+'개'+(j.withPhotos?' (사진 포함)':' (사진 없음)')+'인 백업이에요.\n지금 이 폰의 기록은 이 백업으로 바뀌어요.','불러오기')){msg.textContent='';return}
+    if(!await ask('백업 불러오기','물건 '+n+'개, 수납함 '+(st.boxes||[]).length+'개'+(j.withPhotos?' (사진 포함)':' (사진 없음)')+'인 백업이에요.\n지금 이 폰의 기록은 이 백업으로 바뀌어요.','불러오기')){msg.textContent='';return}
     const d=await openDB();await P(d.transaction('photos','readwrite').objectStore('photos').clear());urlCache.clear();
     let k=0;const ids=Object.keys(j.photos||{});for(const id of ids){const p=j.photos[id];await phSet(id,{full:p.full?await dataToBlob(p.full):null,thumb:p.thumb?await dataToBlob(p.thumb):null});if(++k%20===0)msg.textContent='사진 넣는 중… '+k+'/'+ids.length}
     if(!j.withPhotos){(st.items||[]).forEach(i=>i.photoId='');(st.boxes||[]).forEach(b=>b.photoId='')}
@@ -593,13 +595,14 @@ async function doRestore(msg){
 function sample(){
   const r1={id:'r'+uid(),name:'안방 옷장'},r2={id:'r'+uid(),name:'아이방'},r3={id:'r'+uid(),name:'베란다 창고'};S.rooms.push(r1,r2,r3);
   const mk=(name,roomId,color,note)=>{S.seq++;const b={id:'b'+uid(),code:S.seq,name,roomId,color,note,photoId:''};S.boxes.push(b);return b};
-  const a=mk('겨울 아우터 상자',r3.id,'blue','리빙박스 큰 것'),b=mk('여름옷 상자',r3.id,'yellow',''),c=mk('서랍 1칸 (내복)',r2.id,'green',''),e=mk('행거 왼쪽',r1.id,'red','');
+  const a=mk('겨울 아우터 상자',r3.id,'blue','리빙박스 큰 것'),b=mk('크리스마스 장식',r3.id,'red','12월에 꺼내기'),c=mk('아이 장난감 상자',r2.id,'yellow',''),e=mk('공구함',r3.id,'gray','현관 쪽 선반'),f=mk('서랍 1칸 (내복)',r2.id,'green',''),g=mk('행거 왼쪽',r1.id,'purple','');
   S.people=['엄마','아빠','선우'];
-  const it=(name,cat,owner,size,season,boxId,brand)=>S.items.push({id:'i'+uid(),status:'keep',created:Date.now(),updated:Date.now(),name,cat,owner,size,season,boxId,brand:brand||'',memo:'',photoId:''});
-  it('남색 롱패딩','아우터','엄마','66',['겨울'],a.id,'');it('검정 숏패딩','아우터','아빠','105',['겨울'],a.id,'');it('곰돌이 우주복','아우터','선우','90',['겨울'],a.id,'');
-  it('린넨 셔츠','상의','아빠','100',['여름'],b.id,'');it('반바지 2벌','하의','선우','100',['여름'],b.id,'');
-  it('수면 내복','속옷·잠옷','선우','100',['가을','겨울'],c.id,'');it('기모 내복','속옷·잠옷','선우','110',['겨울'],c.id,'');
-  it('베이지 트렌치코트','아우터','엄마','55',['봄','가을'],e.id,'');it('회색 니트','니트·가디건','엄마','free',['가을','겨울'],e.id,'');it('청바지','하의','엄마','27',['봄','가을','겨울'],'','');
+  const it=(name,cat,owner,size,season,boxId)=>S.items.push({id:'i'+uid(),status:'keep',created:Date.now(),updated:Date.now(),name,cat,owner,size,season,boxId,brand:'',memo:'',photoId:''});
+  it('남색 롱패딩','옷','엄마','66',['겨울'],a.id);it('검정 숏패딩','옷','아빠','105',['겨울'],a.id);it('곰돌이 우주복','옷','선우','90',['겨울'],a.id);
+  it('크리스마스 트리 (120cm)','계절용품','공용','',['겨울'],b.id);it('트리 전구·오너먼트','계절용품','공용','',['겨울'],b.id);
+  it('레고 듀플로','장난감','선우','',[],c.id);it('자동차 장난감','장난감','선우','',[],c.id);it('그림책 10권','책·문구','선우','',[],c.id);
+  it('전동 드릴','공구·캠핑','아빠','',[],e.id);it('캠핑 랜턴','공구·캠핑','공용','',['여름'],e.id);
+  it('수면 내복','옷','선우','100',['가을','겨울'],f.id);it('베이지 트렌치코트','옷','엄마','55',['봄','가을'],g.id);it('회색 니트','옷','엄마','free',['가을','겨울'],g.id);it('선풍기 리모컨','전자기기','공용','',['여름'],'');
   changed();render();toast('예시를 넣었어요. 설정 → 처음부터 다시로 지울 수 있어요');
 }
 
@@ -608,7 +611,7 @@ let toastT=null;function toast(t){document.querySelectorAll('.toast').forEach(x=
 
 // ---------- 시작 ----------
 (async()=>{
-  try{const st=await kvGet('state');if(st)S=Object.assign(BLANK(),st)}catch(e){$('main').append(el('div',{class:'warn'},'저장소를 열 수 없어요. 시크릿 모드라면 일반 창으로 열어 주세요.'))}
+  try{const st=await kvGet('state');if(st){S=Object.assign(BLANK(),st);let ch=false;if(S.name==='우리집 옷장'){S.name='우리집 보관함';ch=true}S.items.forEach(i=>{if(OLD_CLOTHES.includes(i.cat)){if(!i.name)i.name=i.cat;i.cat='옷';ch=true}else if(i.cat==='신발'||i.cat==='가방'){i.cat='신발·가방';ch=true}});if(ch)changed()}}catch(e){$('main').append(el('div',{class:'warn'},'저장소를 열 수 없어요. 시크릿 모드라면 일반 창으로 열어 주세요.'))}
   document.title=S.name;render();fromHash();
 })();
 window.__closet={get S(){return S},render};

diff --git a/sw.js b/sw.js
@@ -1,5 +1,5 @@
 // 인터넷이 없어도 열리게: 앱 파일은 저장해 두고, 새 버전이 있으면 다음에 열 때 바뀐다
-const CACHE='closet-202611242145';
+const CACHE='closet-202611242151';
 const SHELL=['./','index.html','qrcode.js','jsQR.js','manifest.webmanifest','icons/icon-192.png','icons/icon-512.png'];
 self.addEventListener('install',e=>{e.waitUntil(caches.open(CACHE).then(c=>c.addAll(SHELL)).then(()=>self.skipWaiting()))});
 self.addEventListener('activate',e=>{e.waitUntil(caches.keys().then(ks=>Promise.all(ks.filter(k=>k!==CACHE).map(k=>caches.delete(k)))).then(()=>self.clients.claim()))});

diff --git a/README.md b/README.md
@@ -1,6 +1,6 @@
-# 우리집 옷장
+# 우리집 보관함
 
-상자에 QR 라벨을 붙이고, 어디에 무슨 옷이 있는지 폰으로 찾는 옷장 정리 웹앱.
+상자에 QR 라벨을 붙이고, 어디에 무엇이 있는지 폰으로 찾는 집 정리 웹앱(옷·장난감·계절용품·공구 등).
 기록과 사진은 각자 폰(브라우저) 안에만 저장돼요. 서버·로그인 없음.
 
 - QR 만들기: qrcode-generator (MIT, Kazuhiko Arase)
